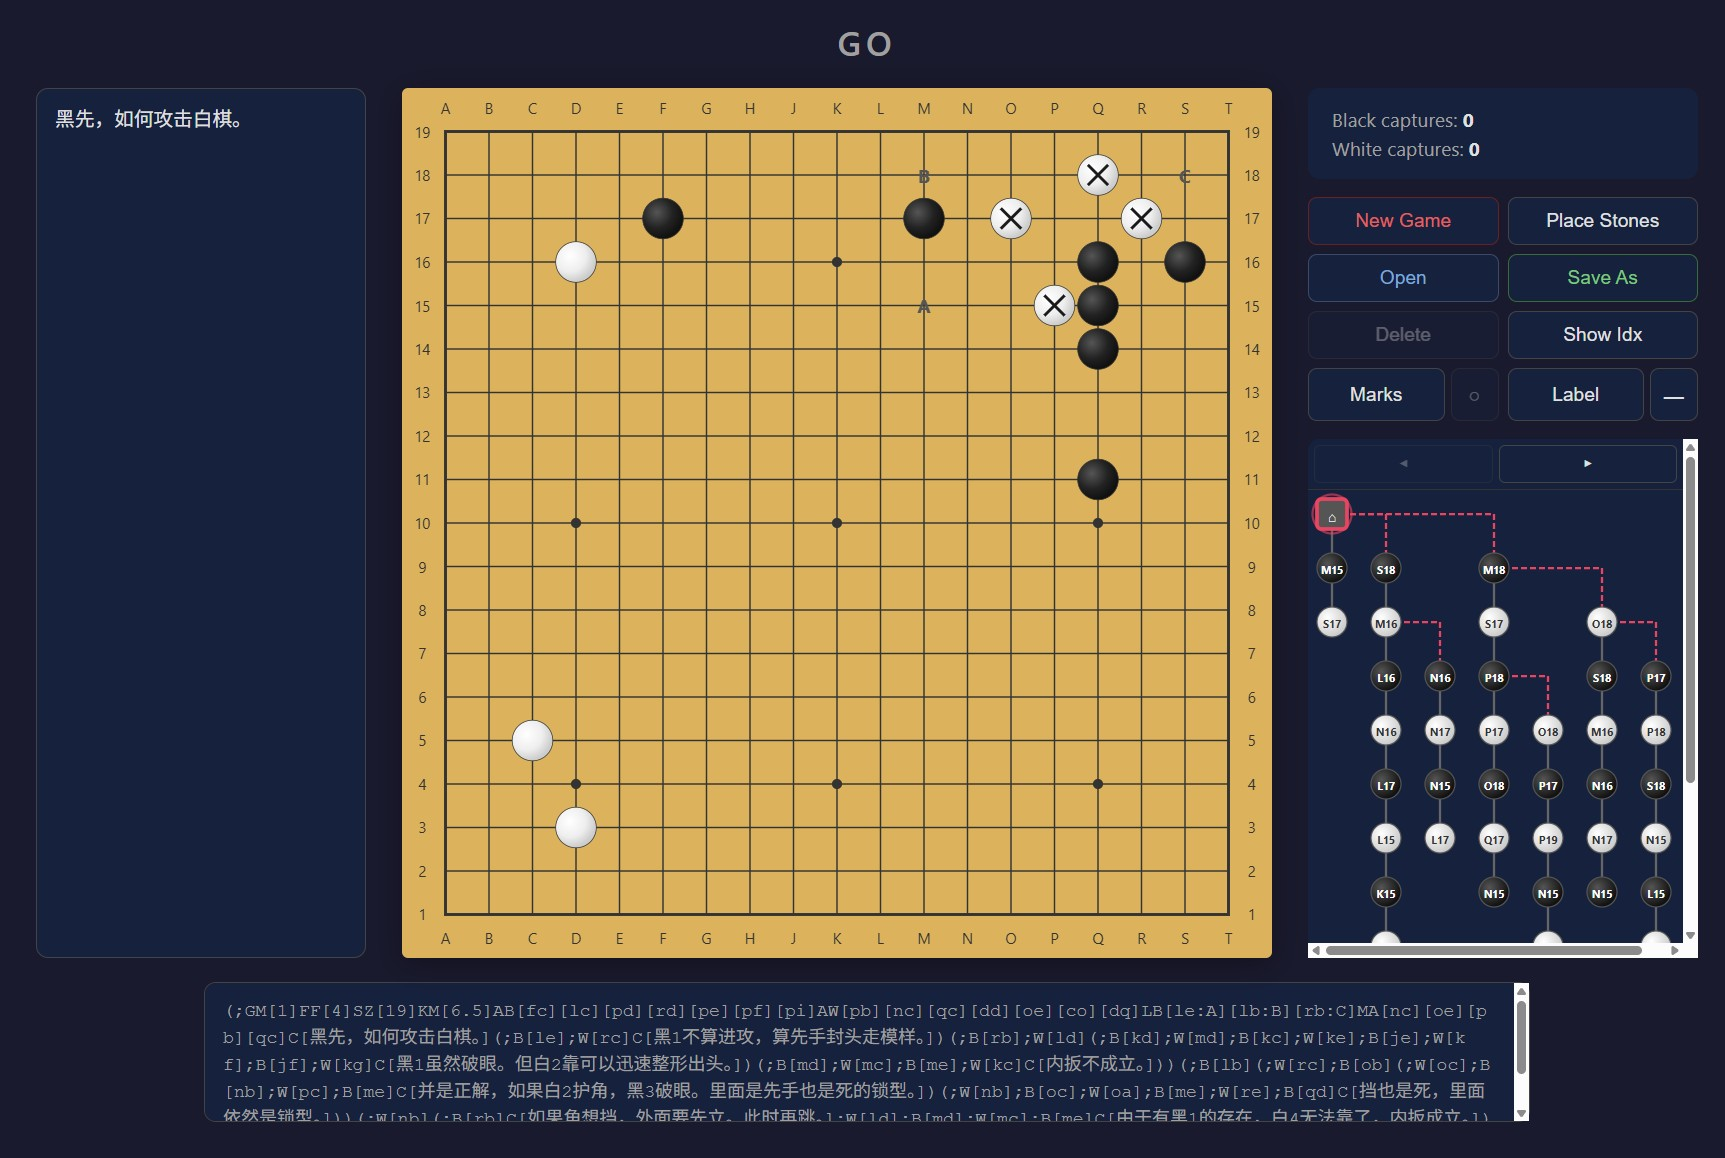
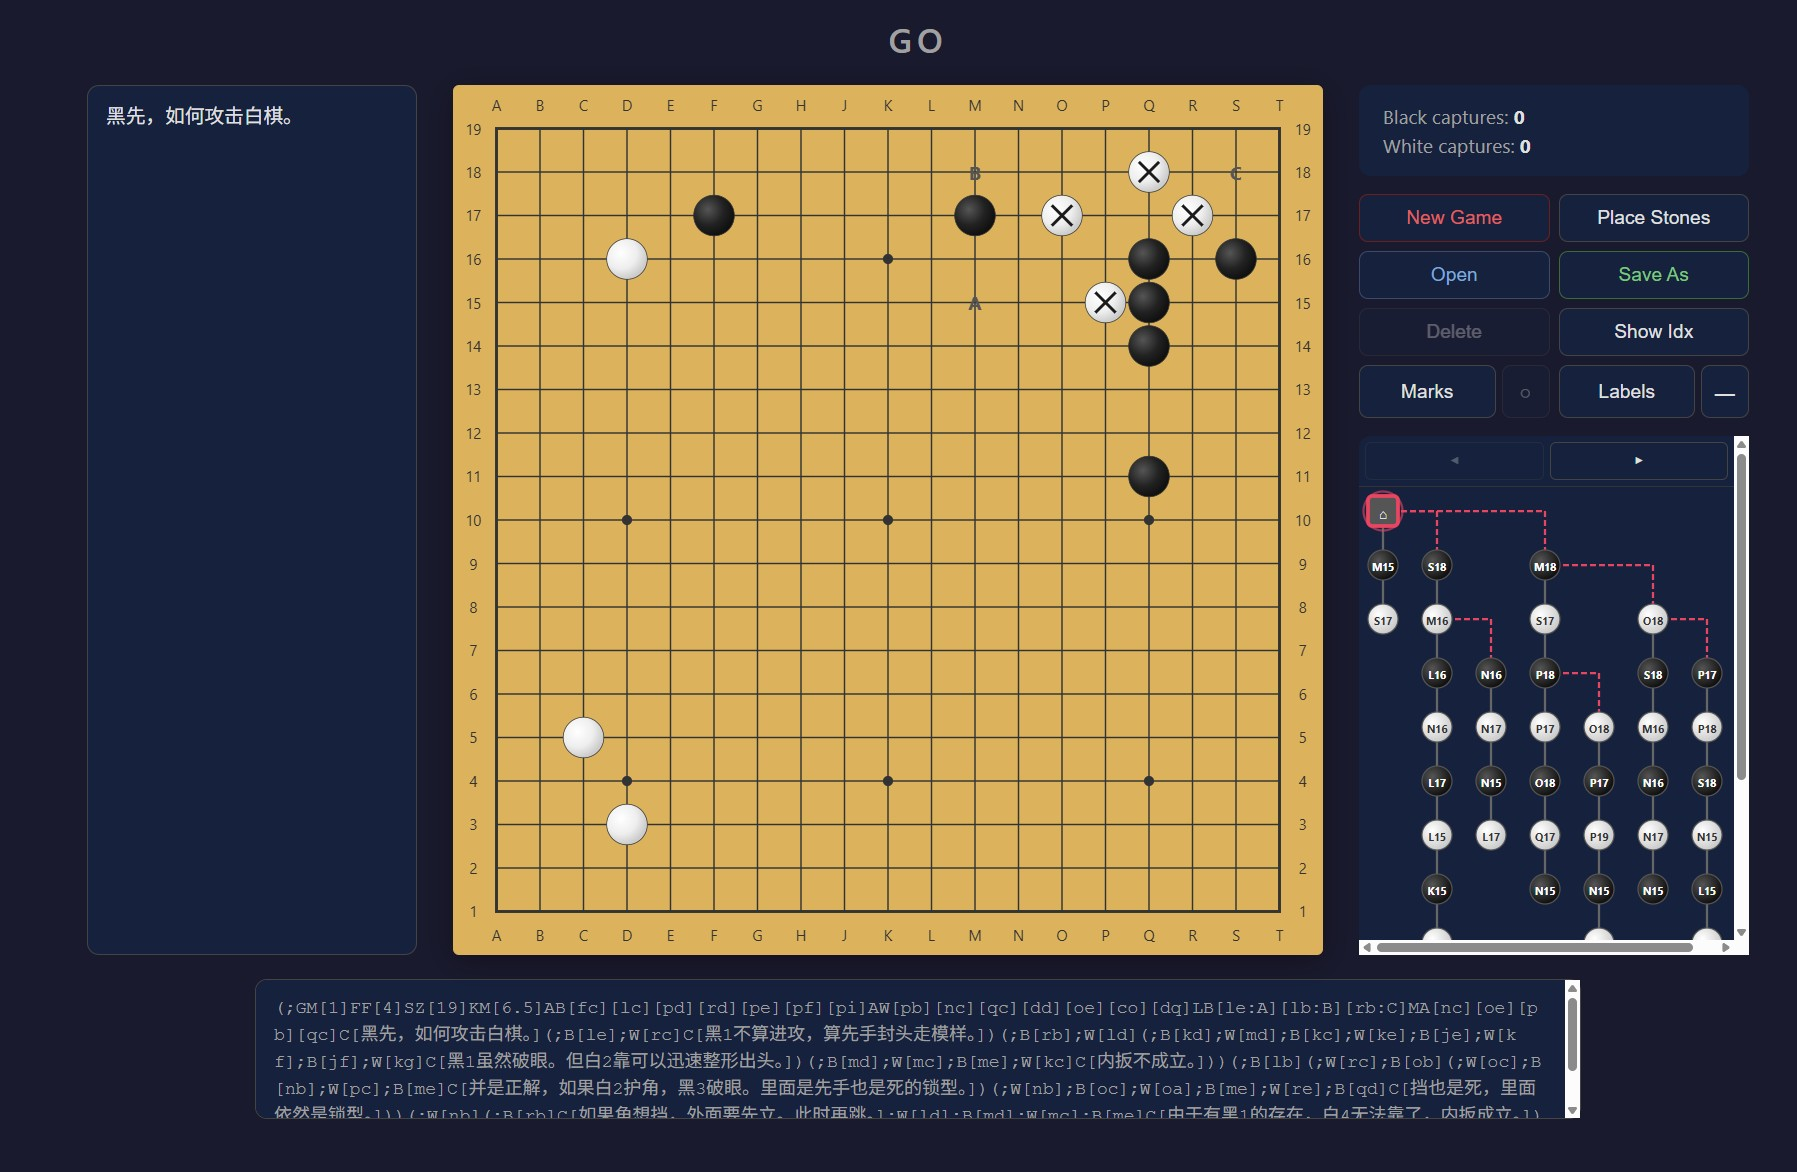
renamed button label

Changed region(s): [[0.1229, 0.0, 0.9832, 0.9948], [0.7681, 0.2798, 0.8296, 0.3731], [0.0307, 0.0933, 0.1536, 0.1244]]

diff --git a/src/components/Controls.tsx b/src/components/Controls.tsx
@@ -208,7 +208,7 @@ export default function Controls({
             className={`btn label-toggle ${labelMode ? 'active' : ''}`}
             onClick={onToggleLabelMode}
           >
-            Label
+            Labels
           </button>
           <span className="label-indicator">
             {labelMode ? nextLabel : '—'}